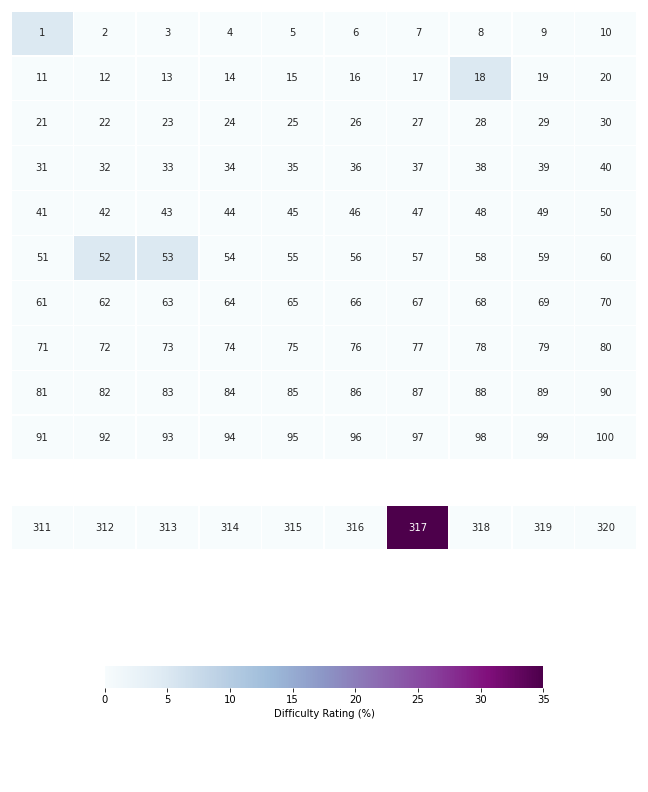
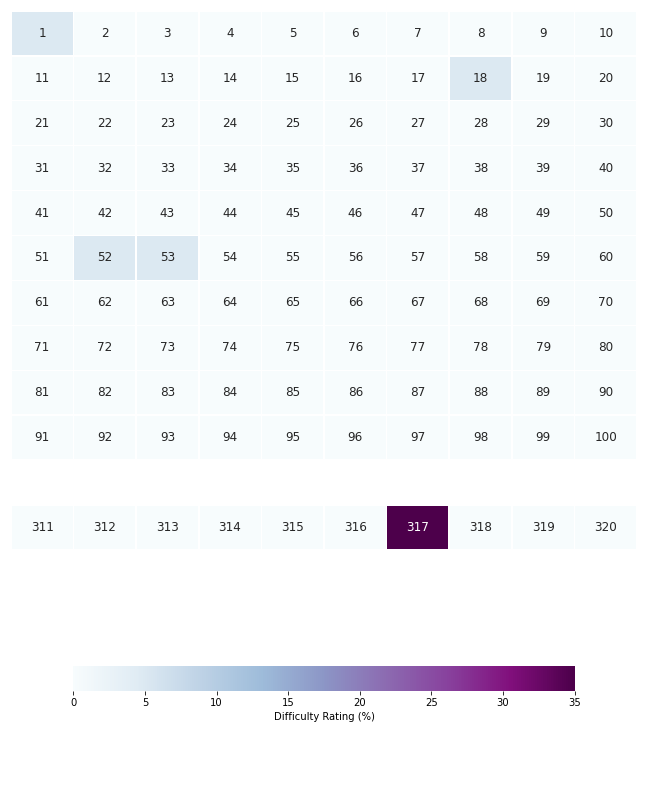
udpate

diff --git a/make_progress_hmap.py b/make_progress_hmap.py
@@ -50,9 +50,9 @@ def main(progress):
     axes.set_axis_off()
 
     sns.heatmap(hm_color,annot=txt_data,cmap="BuPu",fmt="d",linewidth=0.6,
-                ax=axes,cbar_kws={"orientation":"horizontal","shrink":0.70,
-                "label":"Difficulty Rating (%)"}   
-                             )
+                ax=axes,cbar_kws={"orientation":"horizontal","shrink":0.80,
+                "label":"Difficulty Rating (%)"},annot_kws={"size": 12})
+
     plt.tight_layout()
     plt.savefig('progress_heatmap.png')
 
